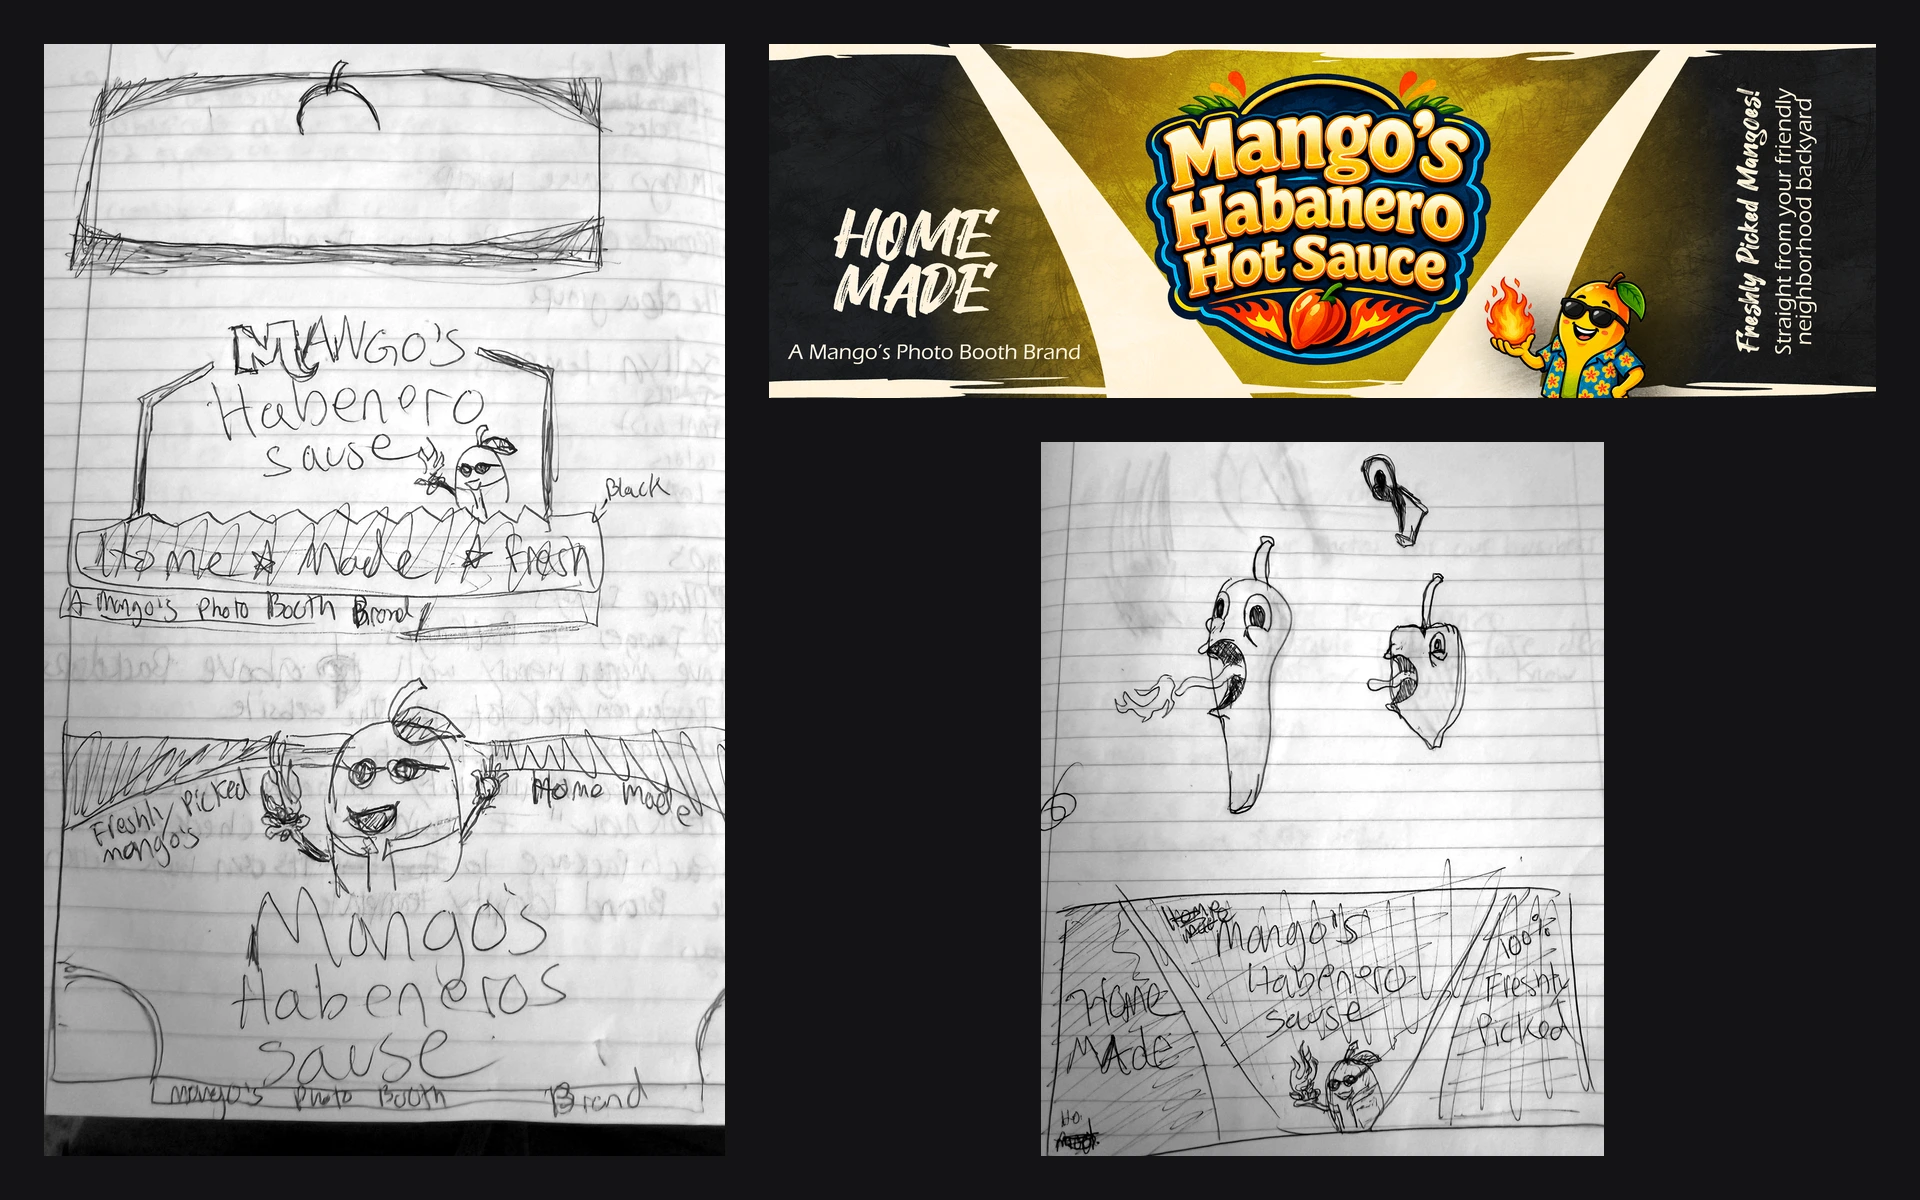
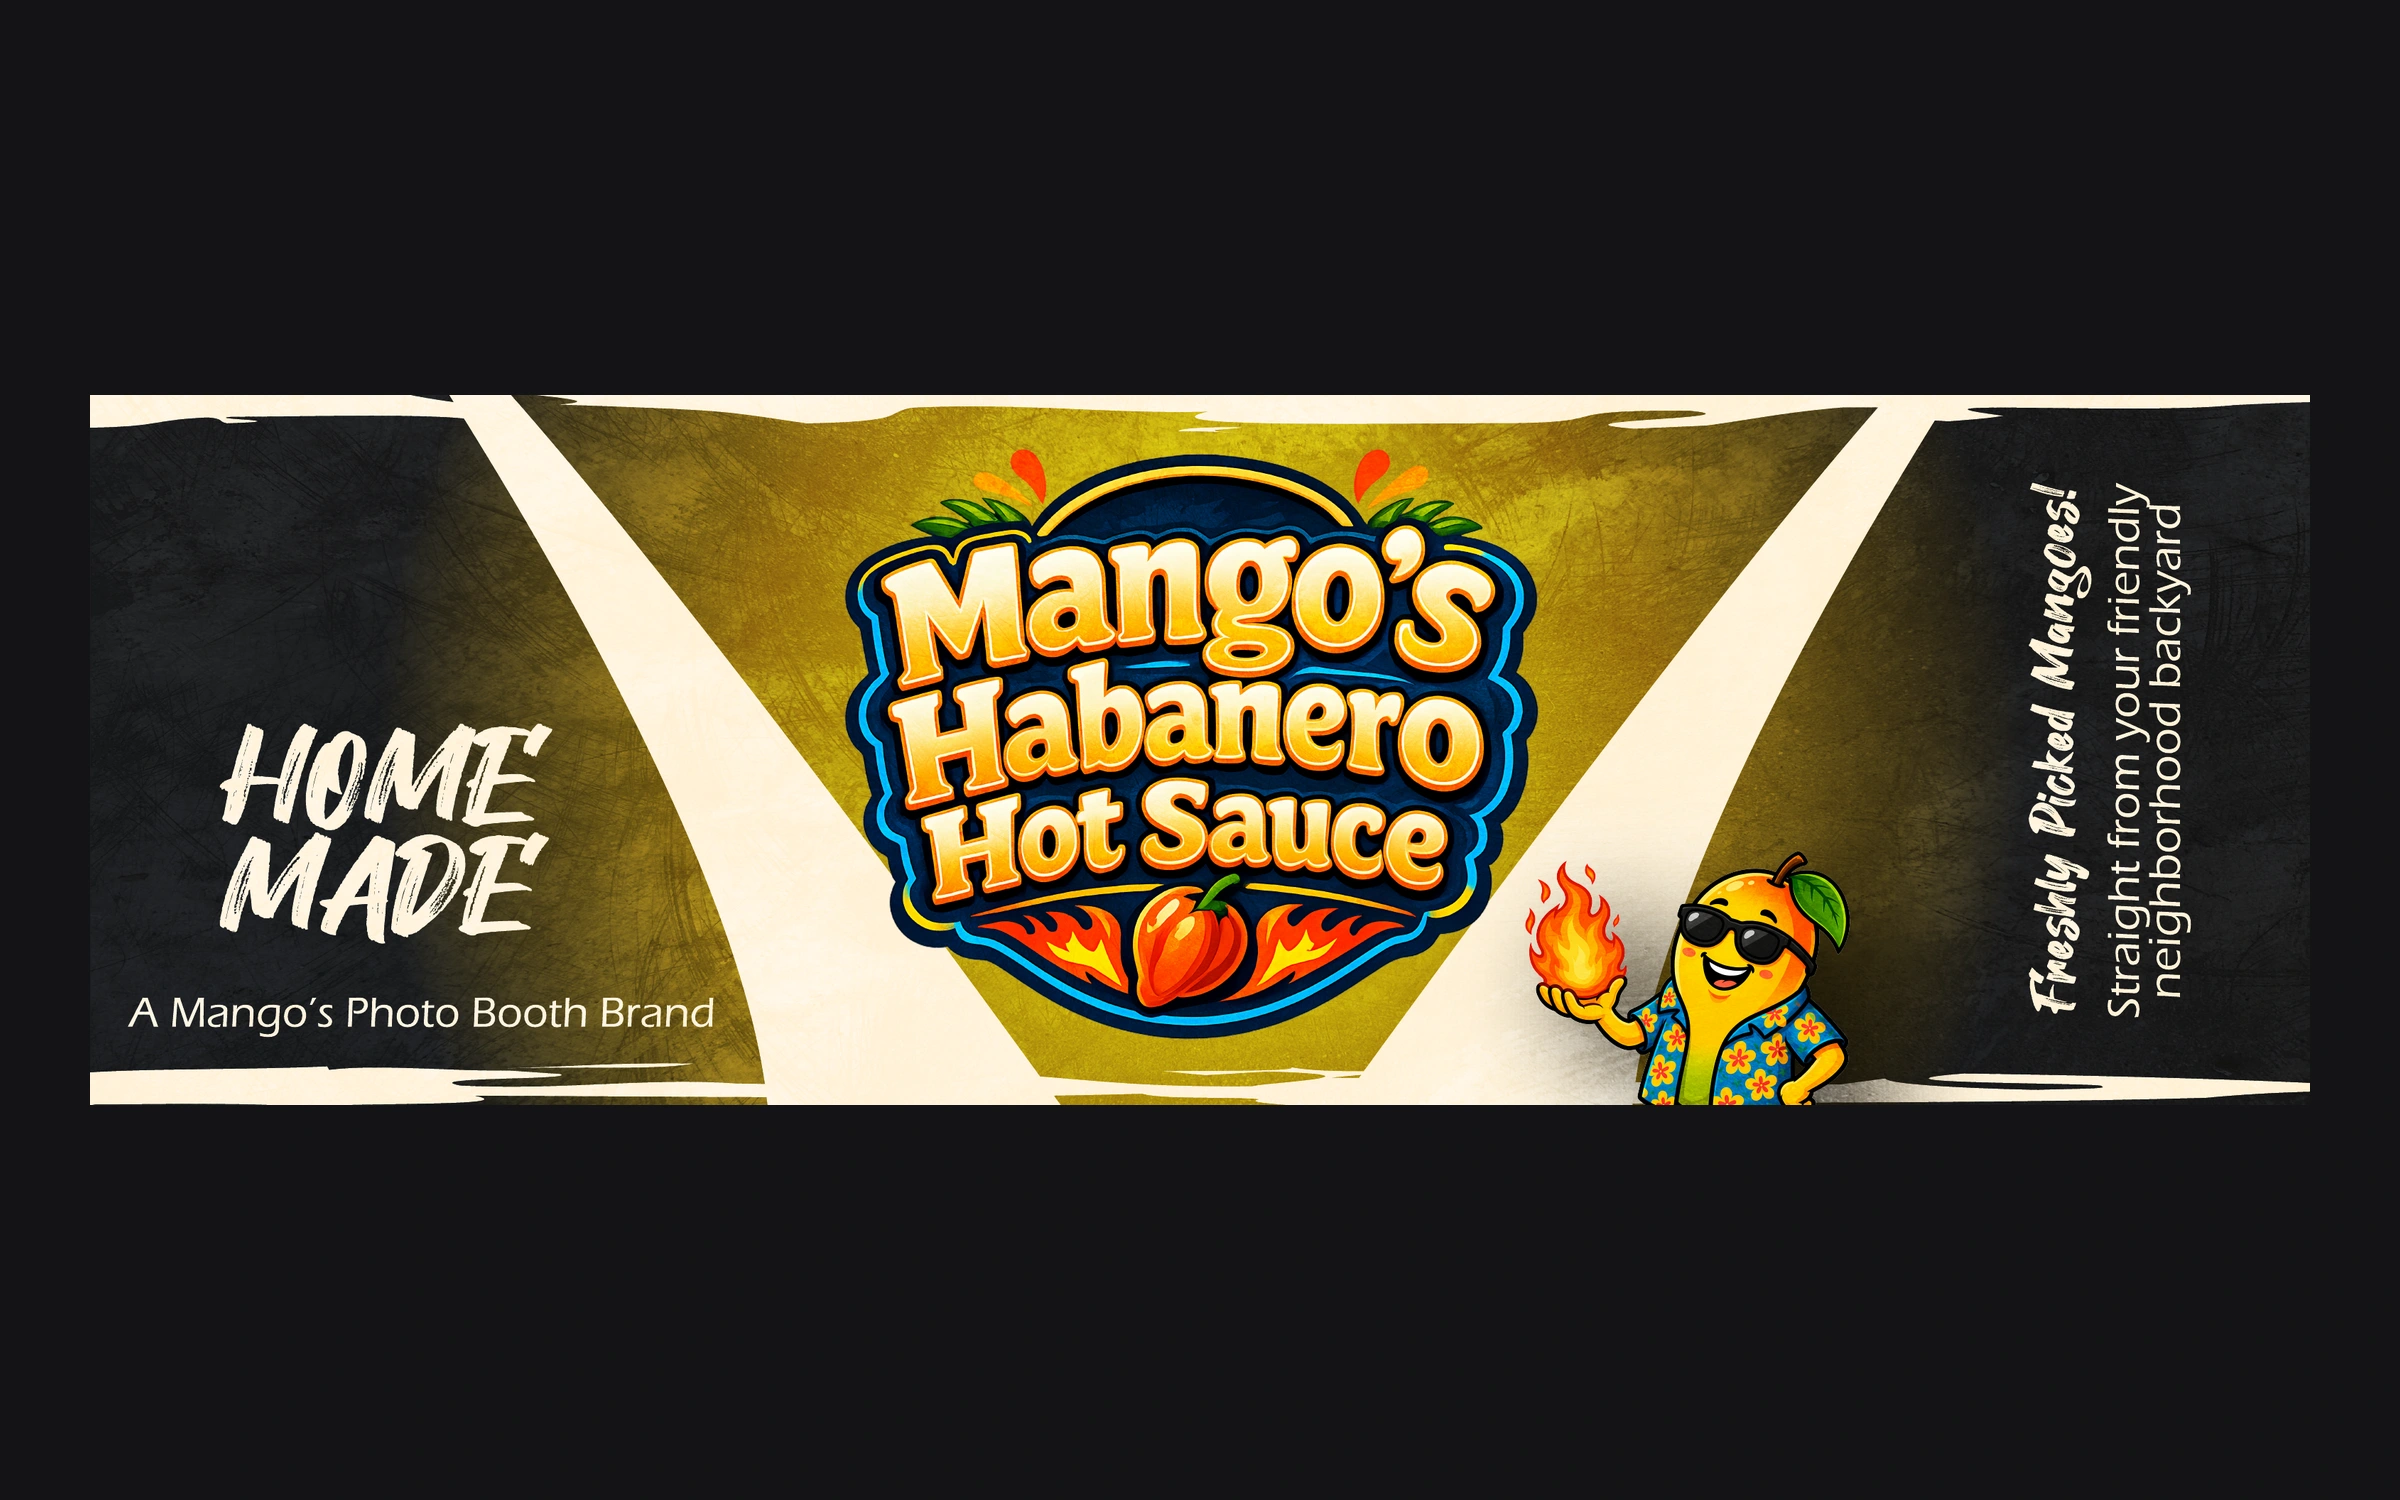
Mango's Habanero Hot Sauce: show the finished label only
Claude-Session: https://claude.ai/code/session_01HGAExMiHR1GKGiQDpGjKAX

diff --git a/src/content.ts b/src/content.ts
@@ -544,9 +544,9 @@ const brandIdentityItems: AiShowcaseItem[] = [
     pillar: 'Client · 2026',
     tag: 'Label / Packaging',
     name: "Mango's Habanero Hot Sauce",
-    description: "A hot sauce label for Mango's Photo Booth, taken from notebook sketches to the finished wrap: a badge wordmark, a mango mascot in sunglasses holding a flame, and Home Made and Freshly Picked side panels.",
+    description: "A hot sauce bottle label for Mango's Photo Booth: a badge wordmark, a mango mascot in sunglasses holding a flame, and Home Made and Freshly Picked side panels.",
     built: 'Label, mascot, wordmark',
-    media: { kind: 'image', src: 'media/brand/mangos-hot-sauce.webp', alt: "Mango's Habanero Hot Sauce: two pages of notebook sketches beside the finished bottle label" },
+    media: { kind: 'image', src: 'media/brand/mangos-hot-sauce.webp', alt: "Mango's Habanero Hot Sauce bottle label" },
   },
 ]
 
